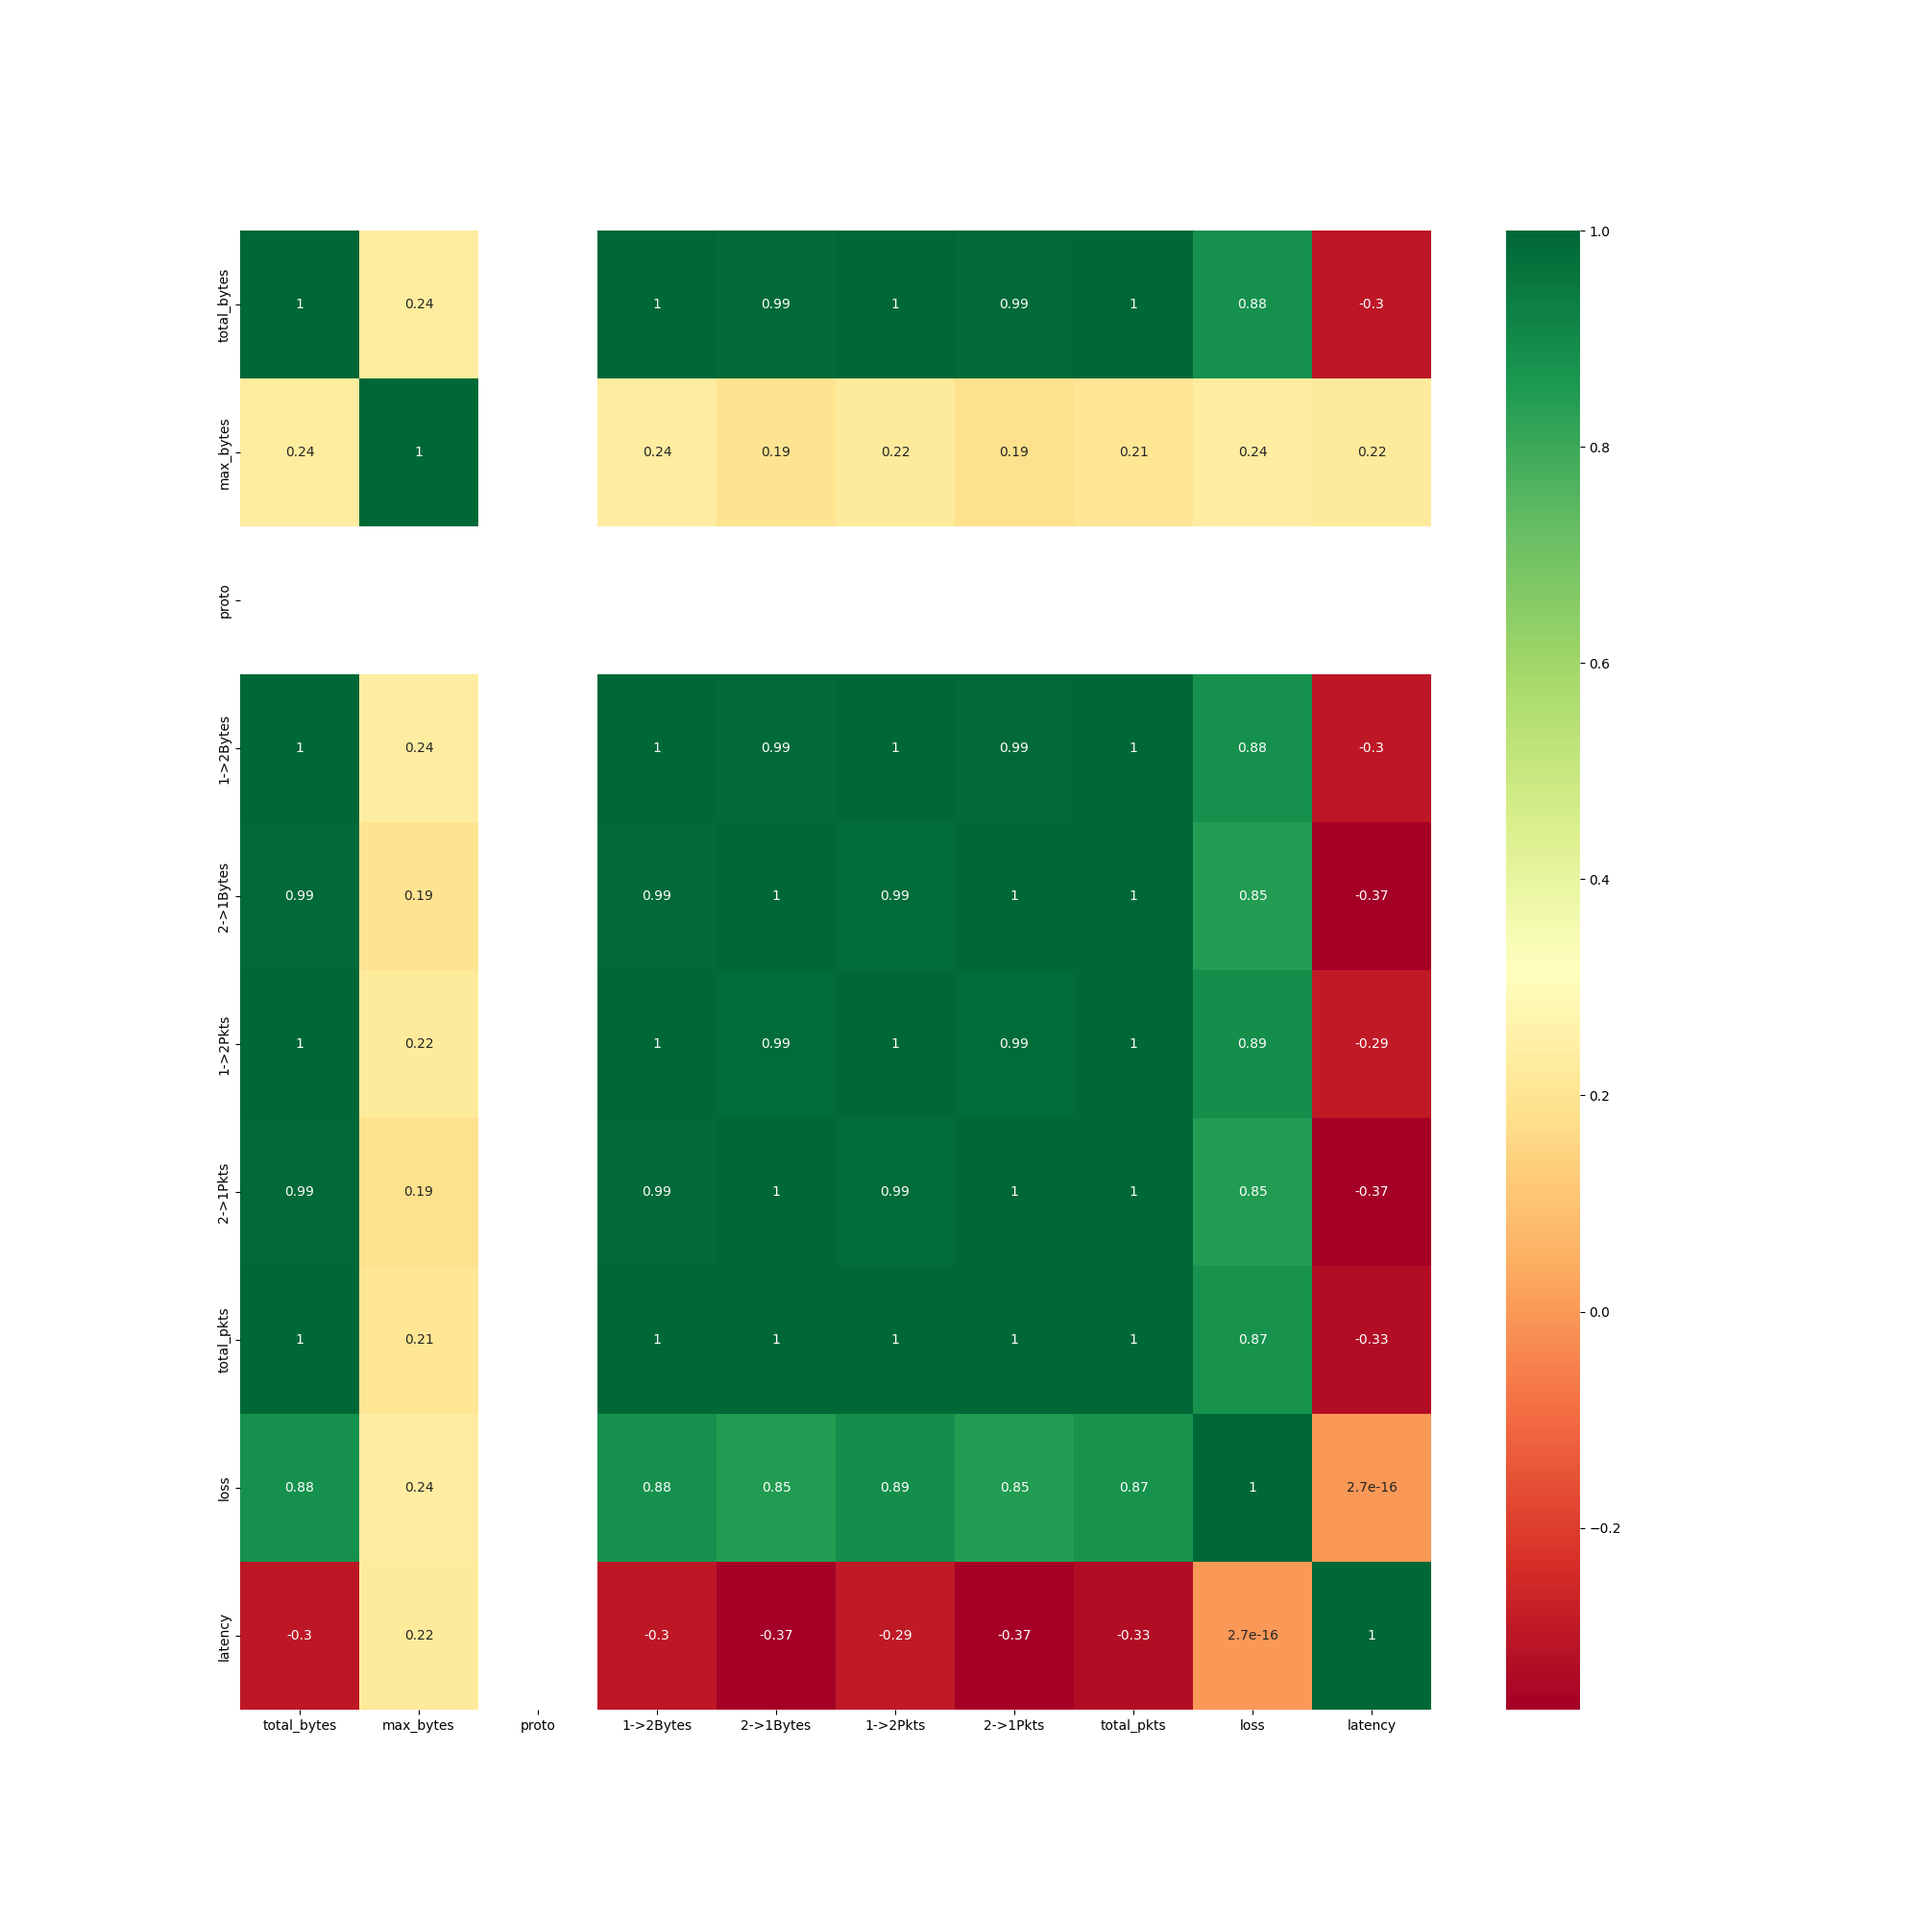
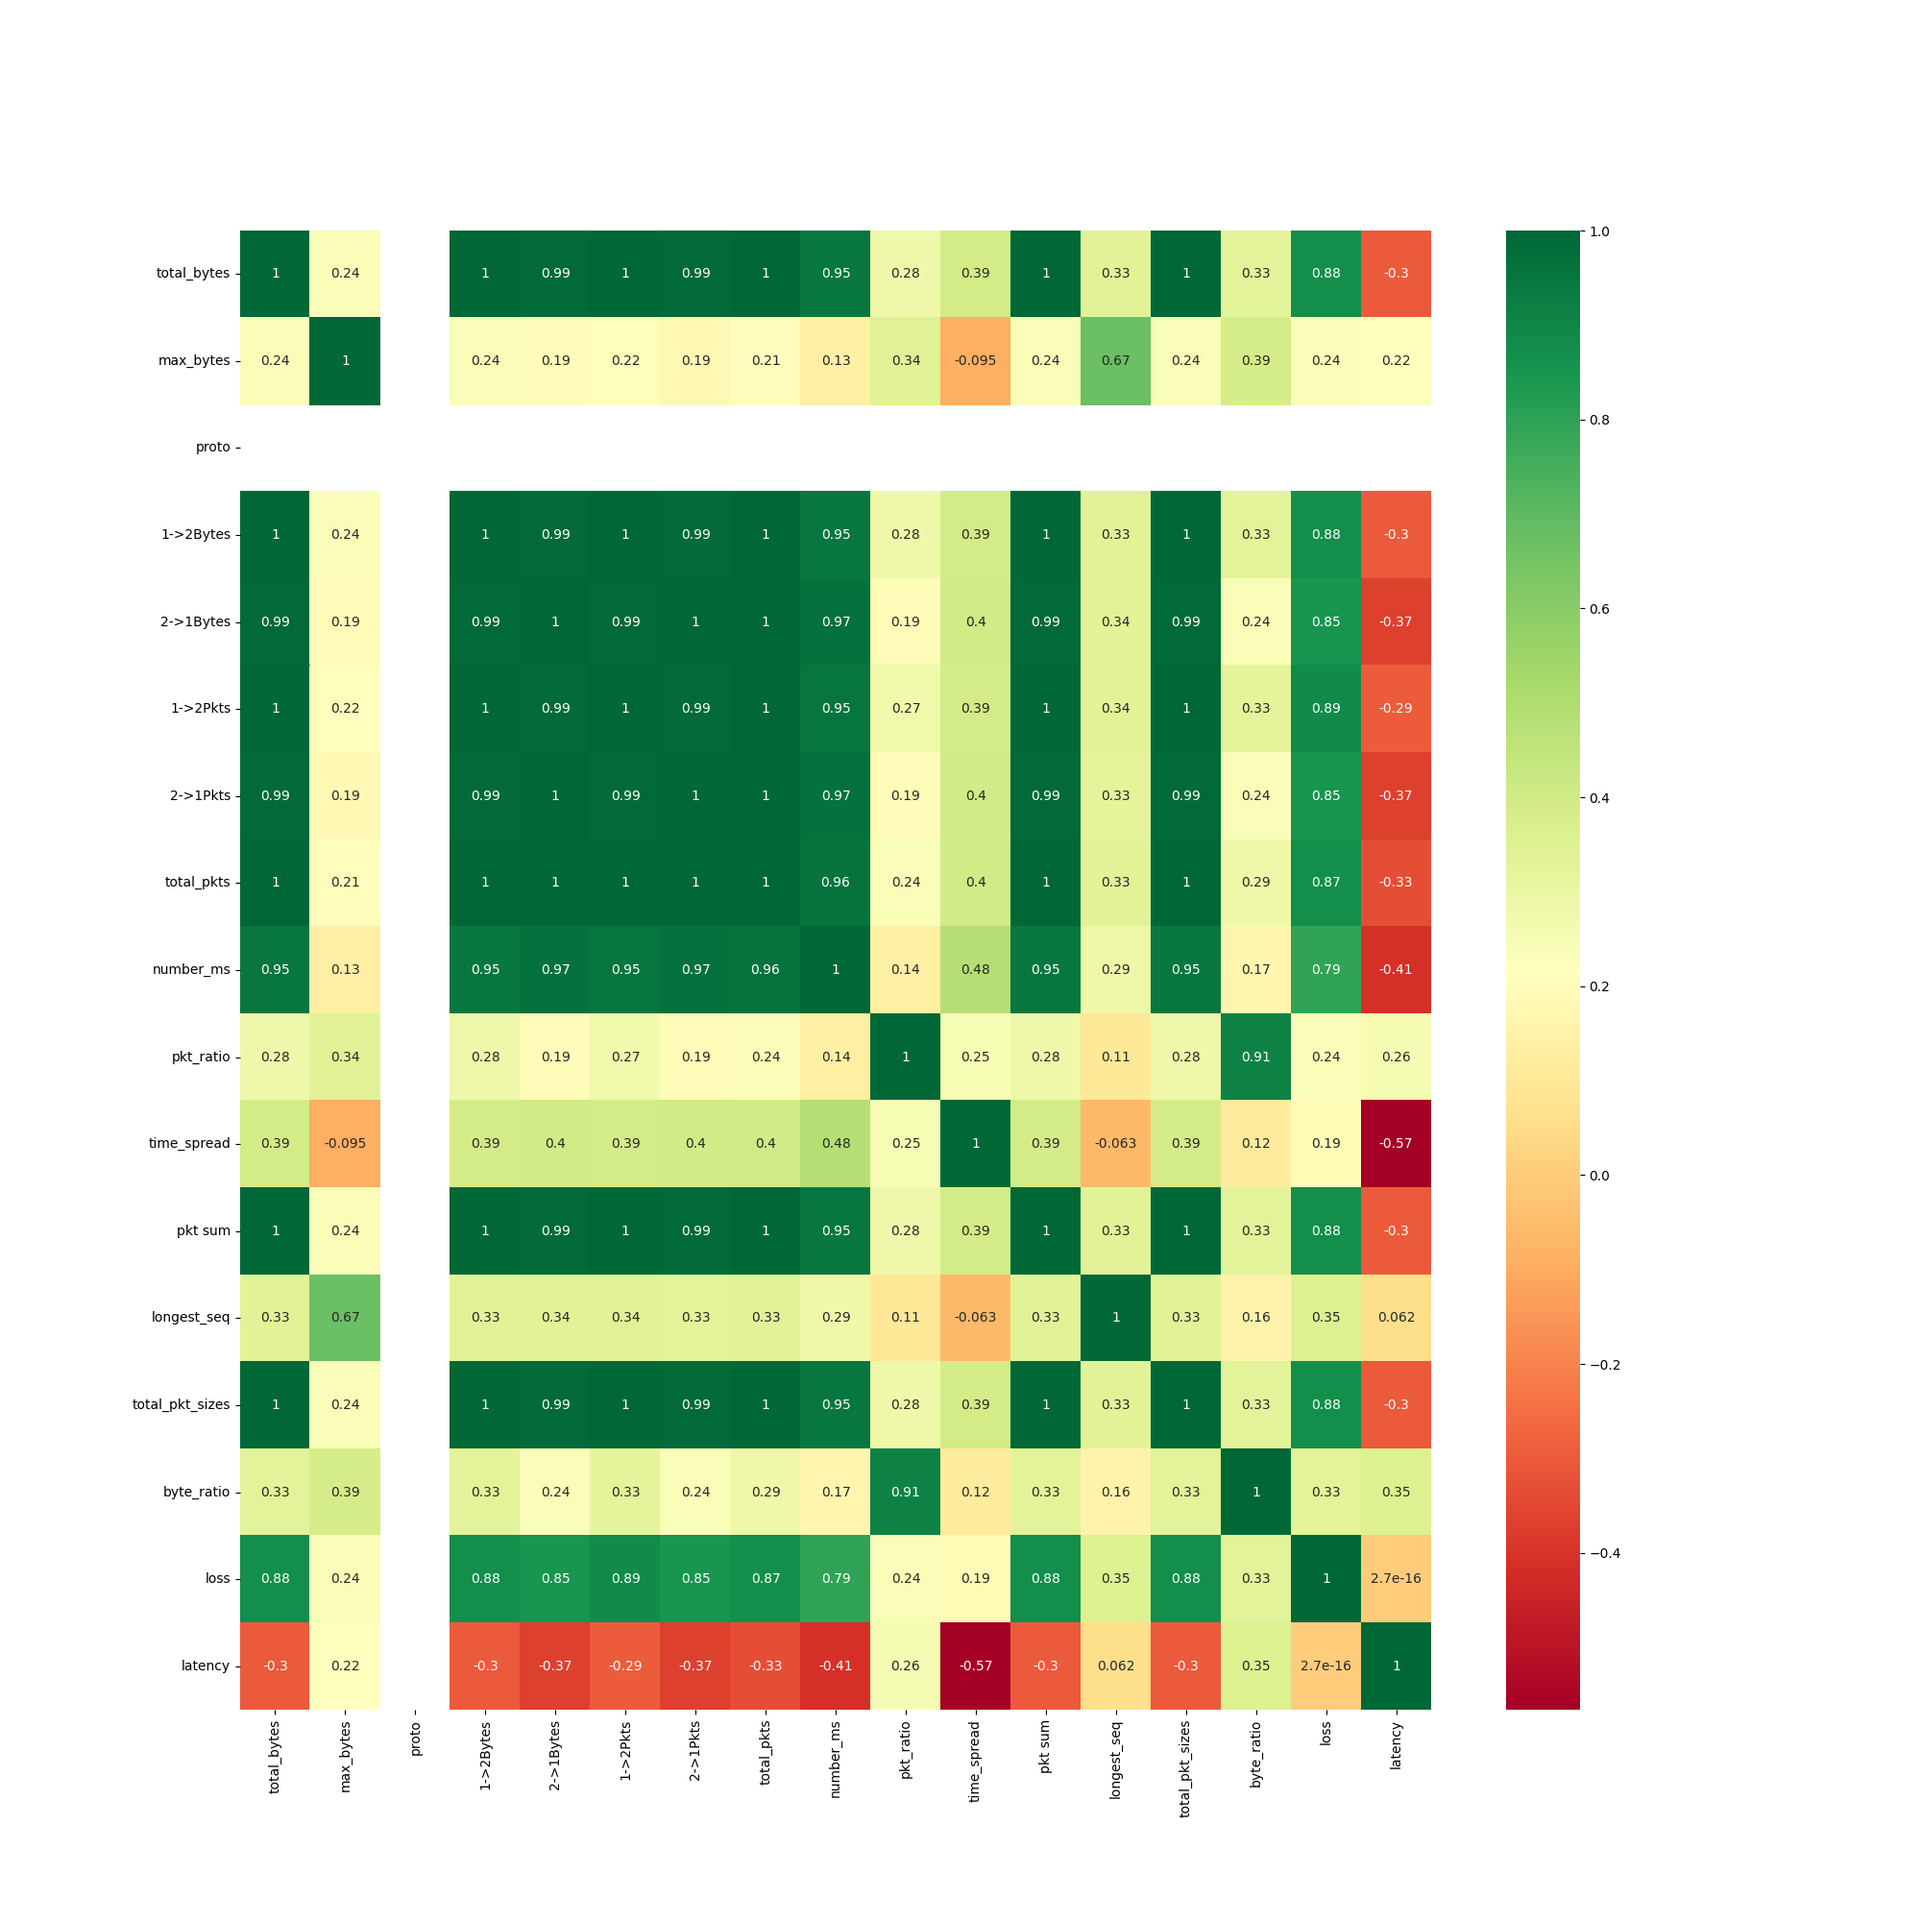
model update

diff --git a/src/train.py b/src/train.py
@@ -70,10 +70,16 @@ def test_feat(cond, df, cols, p, df_u):
     return [acc1, acc2, acc3, acc4 ]
 
 
-def getAllCombinations(object_list):
+def getAllCombinations( cond_):
     lst =  ['total_bytes','max_bytes','proto', "1->2Bytes",'2->1Bytes'
                 ,'1->2Pkts','2->1Pkts','total_pkts','number_ms', 'pkt_ratio','time_spread', 'pkt sum','longest_seq'
                 ,'total_pkt_sizes']
+    lst1 = ["max bytes", "longest_seq", "total_bytes"]
+    lst2 = ["total_pkts", "number_ms", "byte_ratio"]
+    if cond_ == 1:
+        lst = lst1
+    if cond_ == 2:
+        lst = lst2 
     uniq_objs = set(lst)
     combinations = []
     for obj in uniq_objs:
@@ -83,7 +89,7 @@ def getAllCombinations(object_list):
     print("all combinations generated")
     return combinations
 
-def test_mse(cond, all_comb):
+def test_mse(cond, all_comb1, all_comb2):
     unseen = ''
     if cond =='unseen': 
         unseen = 'unseen'
@@ -92,11 +98,19 @@ def test_mse(cond, all_comb):
     filedir = os.path.join(os.getcwd(), "outputs", "combined_t_latency.csv")
     
     df = pd.read_csv(filedir)
-    all_comb2 = pd.Series(all_comb).apply(lambda x: list(x))
+    all_comb1 = pd.Series(all_comb1).apply(lambda x: list(x))
+    all_comb1 = pd.Series(all_comb2).apply(lambda x: list(x))
     dt = []
     rf = []
     et = []
     pca = []
+    for i in all_comb1:
+        acc_loss = test_feat(cond, df, i, 1, df_unseen)
+        dt.append(acc_loss[0])
+        rf.append(acc_loss[1])
+        et.append(acc_loss[2])
+        pca.append(acc_loss[3])
+
     dt2 = []
     rf2 = []
     et2 = []
@@ -104,25 +118,20 @@ def test_mse(cond, all_comb):
     for i in all_comb2:
         # 1 = loss
         # 2 = latency
-        acc_loss = test_feat(cond, df, i, 1, df_unseen)
         acc_latency = test_feat(cond, df, i, 2, df_unseen)
         #print(accs)
-        dt.append(acc_loss[0])
-        rf.append(acc_loss[1])
-        et.append(acc_loss[2])
-        pca.append(acc_loss[3])
-        
         dt2.append(acc_latency[0])
         rf2.append(acc_latency[1])
         et2.append(acc_latency[2])
         pca2.append(acc_latency[3])        
     
-    dict1 = pd.DataFrame({'feat': all_comb, 'dt': dt, 'rf': rf, 'et': et, 'pca': pca})
-    dict2 = pd.DataFrame({'feat2': all_comb, 'dt2': dt2, 'rf2': rf2, 'et2': et2, 'pca2': pca2})
+    dict1 = pd.DataFrame({'feat': all_comb1, 'dt': dt, 'rf': rf, 'et': et, 'pca': pca})
+    dict2 = pd.DataFrame({'feat2': all_comb2, 'dt2': dt2, 'rf2': rf2, 'et2': et2, 'pca2': pca2})
     
-    feat_df = pd.concat([dict1, dict2], axis=1).drop(['feat2'], axis=1)
+    #feat_df = pd.concat([dict1, dict2], axis=1).drop(['feat2'], axis=1)
     path = os.path.join(os.getcwd() , "outputs")
-    feat_df.to_csv(os.path.join(path, unseen + "feat_df.csv"), index = False)
+    dict1.to_csv(os.path.join(path, unseen + "feat_df1.csv"), index = False)
+    dict2.to_csv(os.path.join(path, unseen + "feat_df2.csv"), index = False)
     
     # return feat_df
 
@@ -130,15 +139,25 @@ def best_performance(cond):
     unseen = ''
     if cond == 'unseen': 
         unseen = 'unseen'
-    print("finding best performance")
-    filedir = os.path.join(os.getcwd(), "outputs", unseen + "feat_df.csv")
-    df = pd.read_csv(filedir)
-    print("Performance sorted from lowest to highest")
-    sorted = df.sort_values(by=['dt', 'rf', 'et', 'pca','dt2', 'rf2', 'et2', 'pca2'], ascending = True)
-    print(sorted[:5])
-    print("Performance sorted from highest to lowest")
-    sorted_2 = df.sort_values(by=['dt', 'rf', 'et', 'pca','dt2', 'rf2', 'et2', 'pca2'], ascending = False)
-    print(sorted_2[:5])
+    #print("finding best loss performance")
+    filedir1 = os.path.join(os.getcwd(), "outputs", unseen + "feat_df1.csv")
+    df1 = pd.read_csv(filedir1)
+    print( "\n")
+    print("Loss Performance sorted from lowest to highest", "\n")
+    print(df1.sort_values(by=['dt', 'rf', 'et', 'pca'], ascending = True)[:5], "\n")
+    #print("Loss Performance sorted from highest to lowest")
+    #print(df1.sort_values(by=['dt', 'rf', 'et', 'pca'], ascending = False)[:5])
+    
+
+    #print("finding best latency performance")
+    filedir2 = os.path.join(os.getcwd(), "outputs", unseen + "feat_df2.csv")
+    df2 = pd.read_csv(filedir2)
+    print( "\n")
+    print("Latency Performance sorted from lowest to highest", "\n")
+    print(df2.sort_values(by=['dt2', 'rf2', 'et2', 'pca2'], ascending = True)[:5], "\n")
+    #print("Latency Performance sorted from highest to lowest")
+    #print(df2.sort_values(by=['dt2', 'rf2', 'et2', 'pca2'], ascending = False)[:5])
+    
     #combined.to_csv("combined_latency.csv")
     # sorted.to_csv(os.path.join(path, "sorted_df.csv"), index = False)
 

diff --git a/src/helper.py b/src/helper.py
@@ -44,7 +44,7 @@ def agg10(t_df):
     #print(t_df.columns)
     indexcol = ['total_bytes','max_bytes','proto', "1->2Bytes",'2->1Bytes'
                 ,'1->2Pkts','2->1Pkts','total_pkts','number_ms', 'pkt_ratio','time_spread', 'pkt sum','longest_seq'
-                ,'total_pkt_sizes', 'loss', 'latency']
+                ,'total_pkt_sizes','byte_ratio', 'loss', 'latency']
     df = pd.DataFrame([t_df[:10]['total_bytes'].mean(),
                        t_df[:10]['max_bytes'].std(), 
                        t_df[:10]['Proto'].value_counts().idxmax(), # most frequent protocol
@@ -59,11 +59,12 @@ def agg10(t_df):
                         t_df[:10]['pkt sum'].mean(),
                         t_df[:10][ 'longest_seq'].mean(),
                         t_df[:10][ 'total_pkt_sizes'].mean(),
+                        t_df['byte_ratio'].mean(),
                         t_df.loss.unique()[0],
                        t_df.latency.unique()[0]],
                       index = indexcol).T
     
-    for i in range(10, t_df.shape[0],16):
+    for i in range(10, t_df.shape[0],17):
         df = pd.concat([df, pd.DataFrame([t_df[:10]['total_bytes'].mean(),
                                            t_df[:10]['max_bytes'].std(), 
                                            t_df[:10]['Proto'].value_counts().idxmax(), # most frequent protocol
@@ -77,7 +78,9 @@ def agg10(t_df):
                                             t_df[:10]['time_spread'].mean(),
                                             t_df[:10]['pkt sum'].mean(),
                                             t_df[:10][ 'longest_seq'].mean(),
-                                            t_df[:10][ 'total_pkt_sizes'].mean(),t_df.loss.unique()[0],
+                                            t_df[:10][ 'total_pkt_sizes'].mean(),
+                                            t_df['byte_ratio'].mean(),
+                                            t_df.loss.unique()[0],
                                             t_df.latency.unique()[0]],
                                         index = indexcol).T]
                                         ,ignore_index=True)
@@ -135,6 +138,7 @@ def genfeat(df):
     df['total_pkt_sizes'] = df.packet_sizes.apply(lambda x: sum(x))
     df['pkt_ratio'] = df.total_pkt_sizes / df.total_pkts
     df['time_spread'] = df.packet_times.apply(lambda x: x[-1] - x[0])
+    df['byte_ratio'] = df.total_bytes / df.total_pkts
     # print("max bytes generated")
     return tdf        
 

diff --git a/run.py b/run.py
@@ -43,17 +43,23 @@ def main(targets):
     if 'train' in targets:
         "trains tests in this target"
         gen(test_seen, **transform_config)
-        gen(test_unseen,**transform_config)
-        
-        combs = getAllCombinations(**columns)
+                
+        comb1 = getAllCombinations(1)
+        comb2 = getAllCombinations(2)
         
         print("Testing on seen data: ")
-        test_mse(test_seen, combs)
+        test_mse(test_seen, comb1, comb2)
         best_performance(test_seen)
                         
     if "inference" in targets: 
+        gen(test_unseen, **transform_config)
+        gen(test_unseen,**transform_config)
+        
+        comb1 = getAllCombinations(1)
+        comb2 = getAllCombinations(2)
+        
         print("Testing on unseen data: ")
-        test_mse(test_unseen, combs)
+        test_mse(test_unseen, comb1, comb2)
         best_performance(test_unseen)
             
     if "test" in targets: 
@@ -61,15 +67,16 @@ def main(targets):
         gen(test_seen, **transform_config)
         gen(test_unseen, **transform_config)
         main_eda(test_seen, **eda_config)
-
-        combs = getAllCombinations(**columns)
+        
+        comb1 = getAllCombinations(1)
+        comb2 = getAllCombinations(2)
         
         print("Testing on seen data: ")
-        test_mse(test_seen, combs)
+        test_mse(test_seen, comb1, comb2)
         best_performance(test_seen)
         
         print("Testing on unseen data: ")
-        test_mse(test_unseen, combs)
+        test_mse(test_unseen, comb1, comb2)
         best_performance(test_unseen)
         
     if 'all' in targets: 
@@ -78,14 +85,15 @@ def main(targets):
         gen(test_unseen, **all_config)
         main_eda(test_seen, **eda_config)
 
-        combs = getAllCombinations(**columns)
+        comb1 = getAllCombinations(1)
+        comb2 = getAllCombinations(2)
         
         print("Testing on seen data: ")
-        test_mse(test_seen, combs)
+        test_mse(test_seen, comb1, comb2)
         best_performance(test_seen)
         
         print("Testing on unseen data: ")
-        test_mse(test_unseen, combs)
+        test_mse(test_unseen, comb1, comb2)
         best_performance(test_unseen)
         
 
